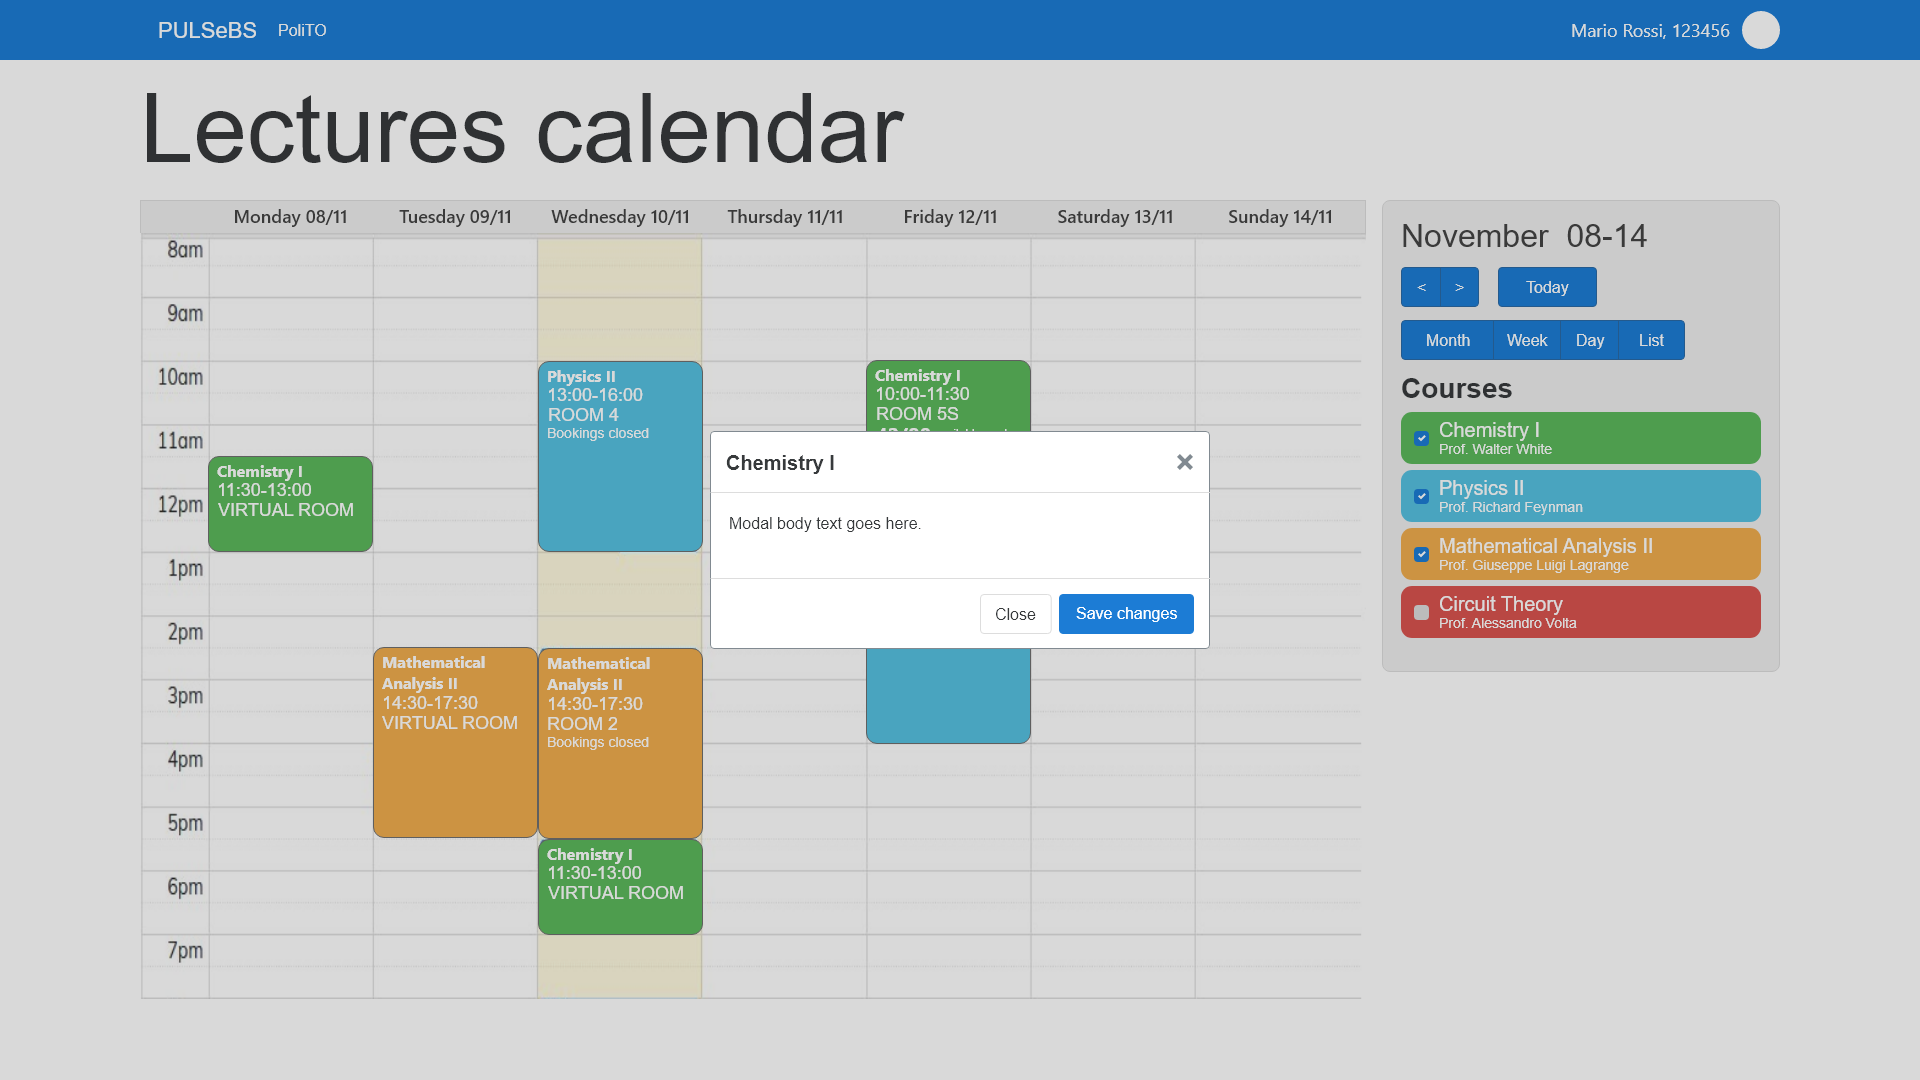
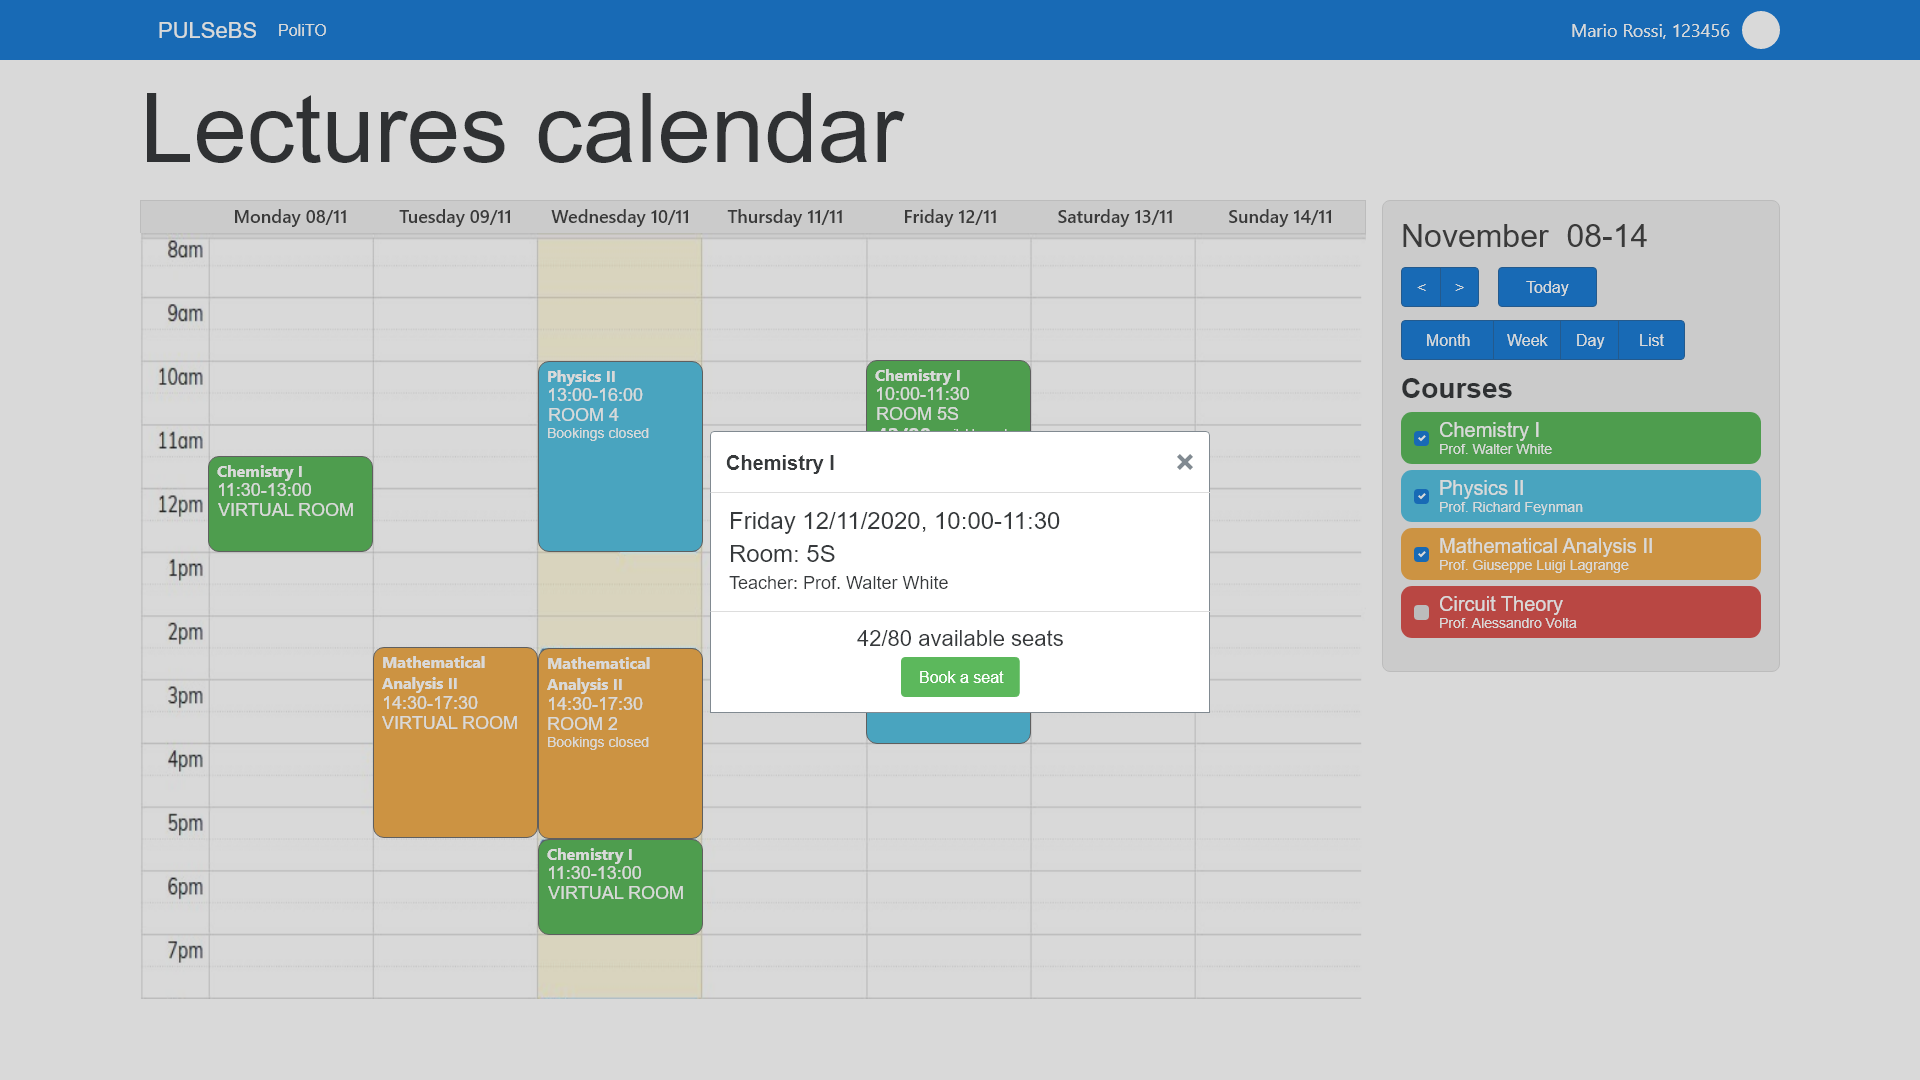
PULSEBS-29 booking modals

Changed region(s): [[0.3438, 0.55, 0.6562, 0.6722], [0.375, 0.4583, 0.5625, 0.55]]

diff --git a/client/doc/GUI_sketches.md b/client/doc/GUI_sketches.md
@@ -12,6 +12,11 @@ For the calendar component used in the following views see [FullCalendar.io](ful
 | Notes: |
 | ![Lectures calendar student view](./img/Lectures calendar student view, booking.png) |
 
+| Lecture booking modals |
+| --- |
+| Notes: |
+| ![Lectures booking modals](./img/Lecture booking modals.png) |
+
 ## Teacher views
 
 ## Support officer views
